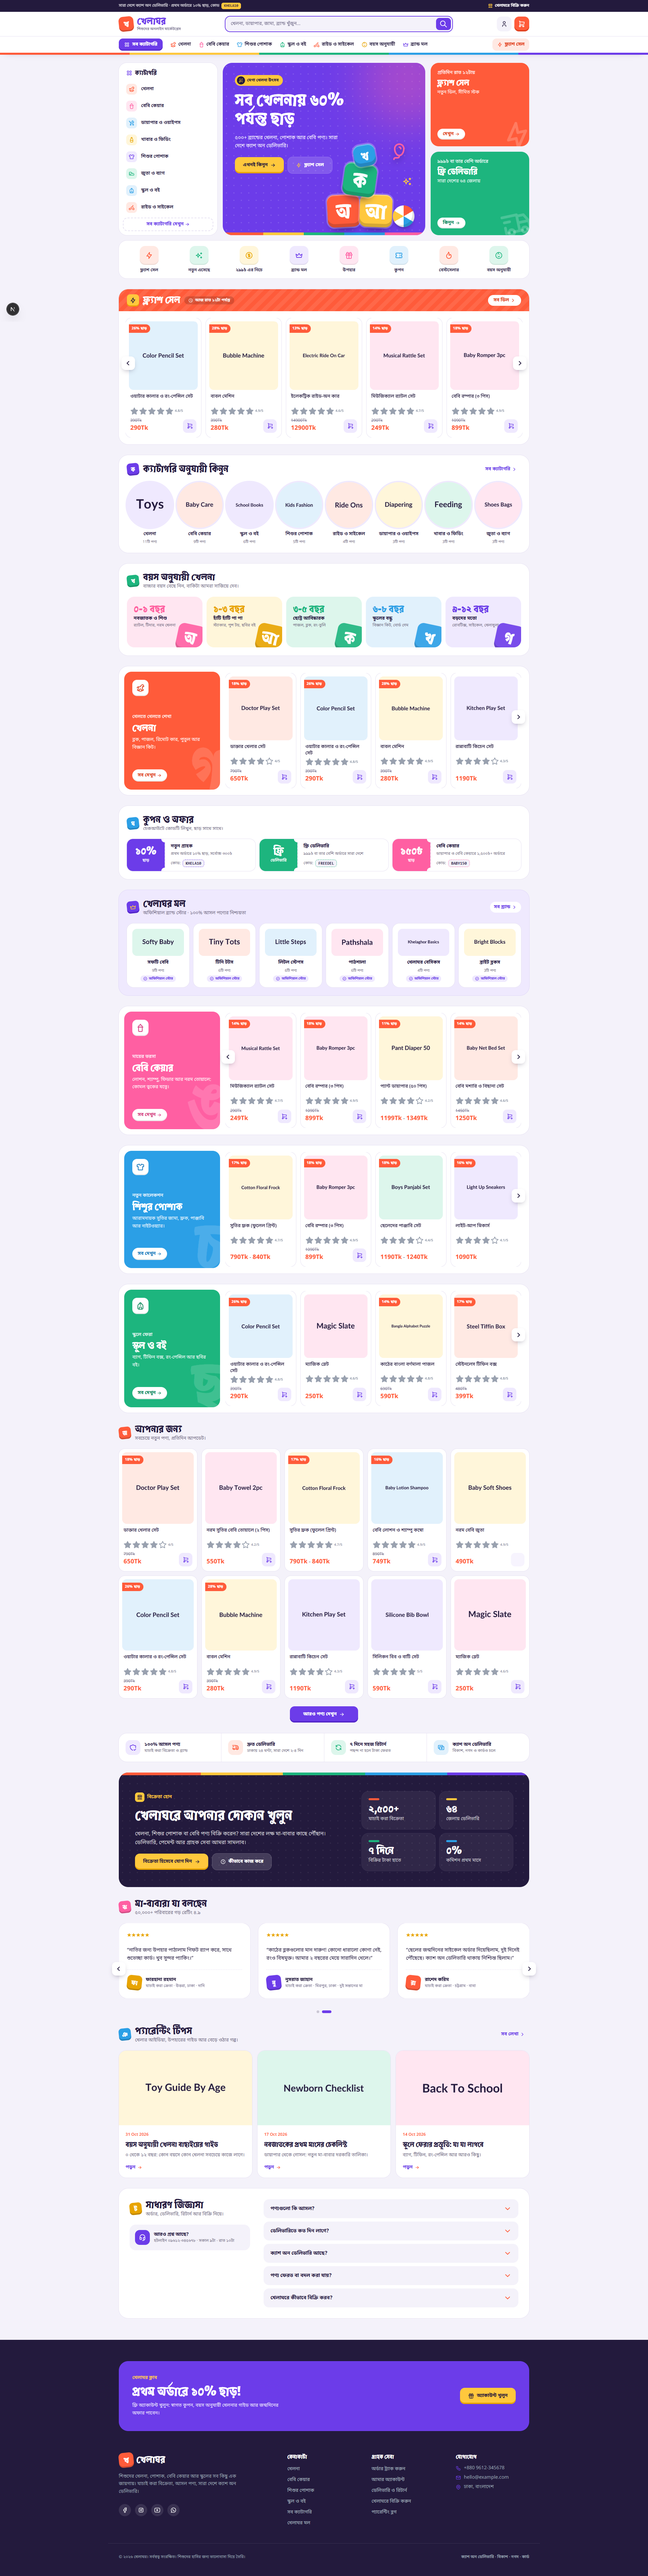
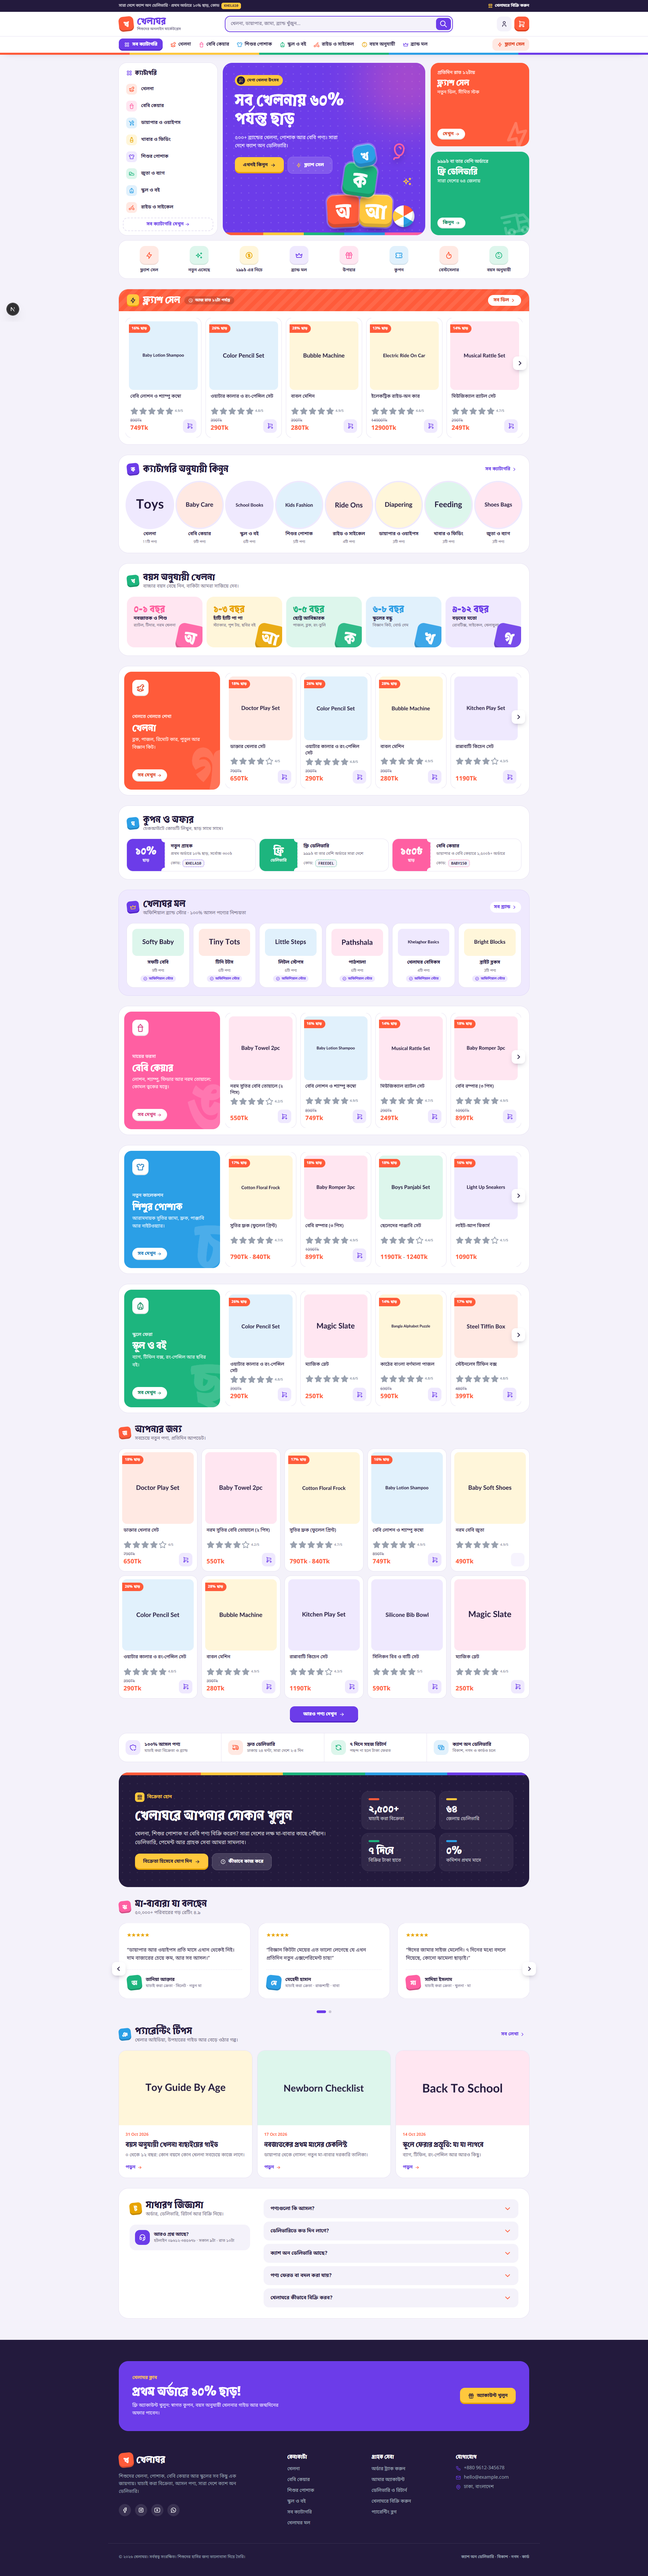
update version

diff --git a/components/vercel/ComboshopVercelOnboarding.jsx b/components/vercel/ComboshopVercelOnboarding.jsx
@@ -119,6 +119,12 @@ const PADDLE_PLAN_PRODUCTS = {
     envKey: "NEXT_PUBLIC_PADDLE_PRODUCT_BUSINESS",
     productId: process.env.NEXT_PUBLIC_PADDLE_PRODUCT_BUSINESS || "",
   },
+  lifetime: {
+    envKey: "NEXT_PUBLIC_PADDLE_PRODUCT_LIFETIME",
+    productId: process.env.NEXT_PUBLIC_PADDLE_PRODUCT_LIFETIME || "",
+  },
+
+
 };
 
 const PADDLE_CONFIGURED =
@@ -209,7 +215,7 @@ const CORS_PLUGIN = WP_PLUGINS.find((plugin) => plugin.name === "Enable CORS");
   the room for all six; here they are a reminder of what the tier is, under a
   row that has to stay one glance tall.
 */
-const PLAN_ORDER = ["starter", "business", "enterprise"];
+const PLAN_ORDER = ["starter", "business",];
 
 const PLAN_OPTIONS = PLAN_ORDER.map((key) => {
   const plan = enMessages.landing.pricing.plans[key];
